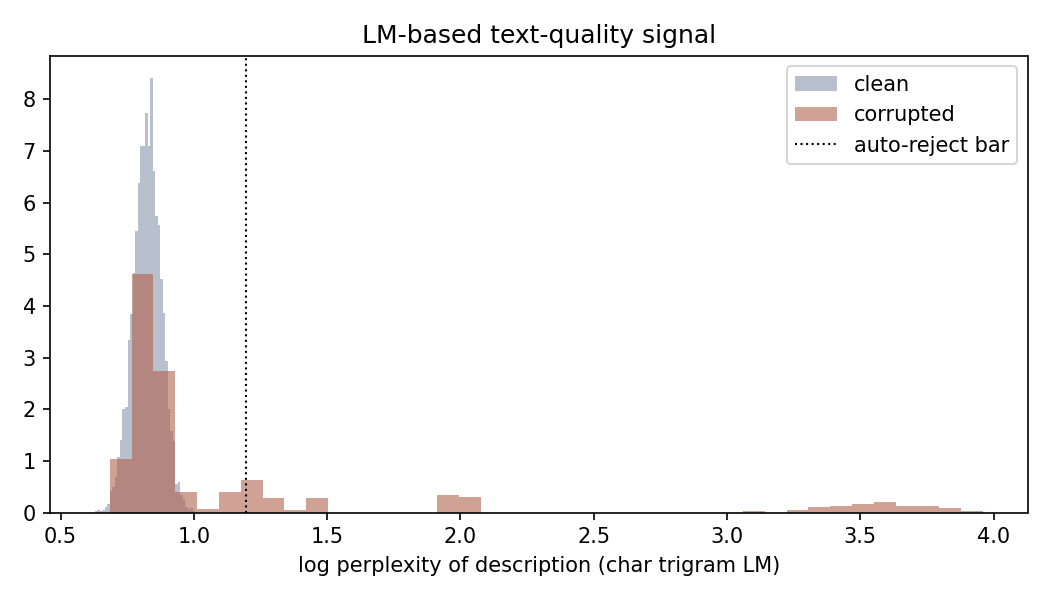
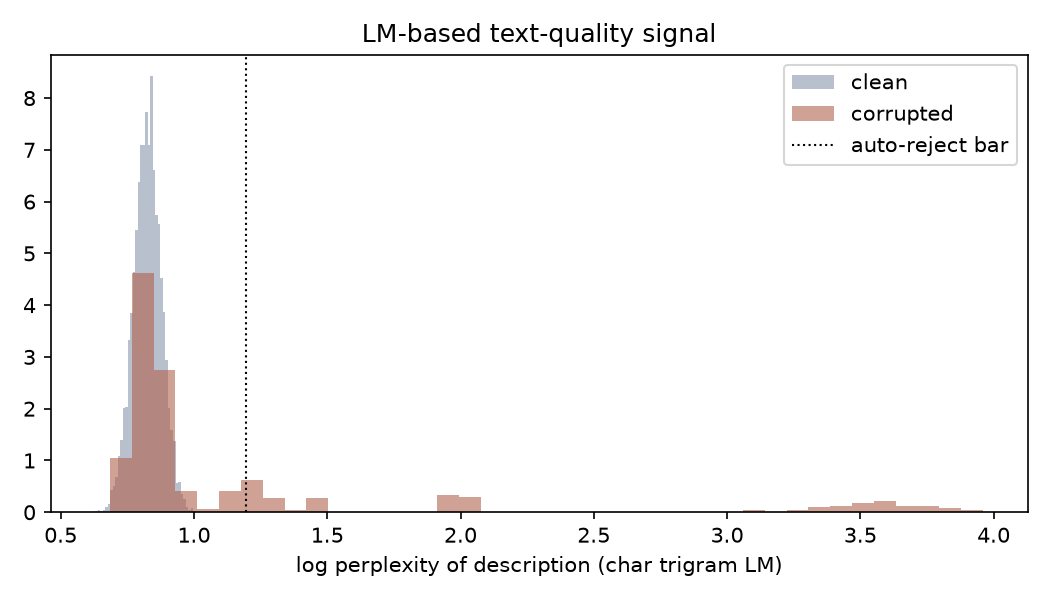
Add Docker, Airflow, MLflow ops and Snowflake port for data-quality-verification and student-outcomes-analysis

diff --git a/data-quality-verification/airflow/dags/data_quality_dag.py b/data-quality-verification/airflow/dags/data_quality_dag.py
@@ -1,0 +1,52 @@
+"""Airflow DAG: daily data-quality verification run.
+
+Orchestrates the pipeline as two dependent tasks:
+    generate_dataset >> run_verification
+
+Setup (using the official Airflow docker-compose quickstart,
+https://airflow.apache.org/docs/apache-airflow/stable/howto/docker-compose/):
+
+1. Follow the quickstart to get Airflow running with docker compose.
+2. Copy this file into the quickstart's dags/ folder.
+3. Mount this project into the containers by adding under x-airflow-common
+   volumes in the quickstart's docker-compose.yaml:
+       - /path/to/data-quality-verification:/opt/airflow/project
+4. In the Airflow UI (http://localhost:8080), unpause `data_quality_pipeline`
+   and trigger a run; both tasks should go green and results/ appears
+   in the project folder.
+"""
+
+from datetime import datetime, timedelta
+
+from airflow import DAG
+from airflow.operators.bash import BashOperator
+
+PROJECT = "/opt/airflow/project"
+
+default_args = {
+    "owner": "ahmed",
+    "retries": 1,
+    "retry_delay": timedelta(minutes=5),
+}
+
+with DAG(
+    dag_id="data_quality_pipeline",
+    description="Generate marketplace records and run layered quality checks",
+    start_date=datetime(2026, 1, 1),
+    schedule="@daily",
+    catchup=False,
+    default_args=default_args,
+    tags=["data-quality"],
+) as dag:
+
+    generate_dataset = BashOperator(
+        task_id="generate_dataset",
+        bash_command=f"cd {PROJECT} && python src/generate_dataset.py",
+    )
+
+    run_verification = BashOperator(
+        task_id="run_verification",
+        bash_command=f"cd {PROJECT} && python src/run_pipeline.py",
+    )
+
+    generate_dataset >> run_verification

diff --git a/data-quality-verification/src/run_pipeline.py b/data-quality-verification/src/run_pipeline.py
@@ -180,6 +180,33 @@ def main():
                    "recall_by_mode": mode_recall}, f, indent=2)
     print(f"\nSaved metrics, figures, review-queue sample to {RESULTS}")
 
+    # ---- optional MLflow experiment tracking ------------------------------
+    # If mlflow is installed (pip install mlflow), each pipeline run is
+    # logged with its thresholds, headline metrics, and artifacts so runs
+    # can be compared in the MLflow UI (`mlflow ui`, http://localhost:5000).
+    try:
+        import mlflow
+    except ImportError:
+        print("mlflow not installed -- skipping experiment tracking")
+    else:
+        mlflow.set_experiment("data-quality-verification")
+        with mlflow.start_run():
+            mlflow.log_params({
+                "n_records": len(records),
+                "ppl_hard_threshold": round(ppl_hi, 2),
+                "ppl_soft_threshold": round(ppl_soft, 2),
+                "repetition_hard": 0.65,
+                "repetition_soft": 0.5,
+            })
+            mlflow.log_metrics({
+                "precision_flagged": precision,
+                "recall_flagged": recall,
+                "leakage_into_accept": leakage,
+                "review_load": review_load,
+            })
+            mlflow.log_artifacts(str(RESULTS))
+        print("logged run to MLflow experiment 'data-quality-verification'")
+
 
 if __name__ == "__main__":
     main()

diff --git a/data-quality-verification/results/review_queue_sample.md b/data-quality-verification/results/review_queue_sample.md
@@ -15,16 +15,6 @@
 - truth: ['exact_duplicate']
 - description: `This rechargeable chair provides a two-year warranty and quiet operation. The ergonomic design offers a machine-washable`
 
-## R00023
-- reasons: near_duplicate (soft: jaccard 0.84 vs R04457)
-- truth: clean
-- description: `This lightweight kettle comes with fast shipping and a reinforced frame. The classic design offers a two-year warranty.`
-
-## R00027
-- reasons: near_duplicate (soft: jaccard 0.81 vs R02295)
-- truth: clean
-- description: `This rechargeable drill includes an extended battery and a two-year warranty. The modern design features an ergonomic gr`
-
 ## R00029
 - reasons: near_duplicate (soft: jaccard 0.89 vs R03421)
 - truth: clean
@@ -39,3 +29,13 @@
 - reasons: near_duplicate (soft: jaccard 1.00 vs R02057)
 - truth: ['exact_duplicate']
 - description: `This modern desk provides an extended battery and a reinforced frame. The lightweight design includes a compact folding `
+
+## R00049
+- reasons: near_duplicate (soft: jaccard 0.85 vs R01084)
+- truth: clean
+- description: `This foldable kettle includes a two-year warranty and an extended battery. The foldable design offers tool-free assembly`
+
+## R00051
+- reasons: near_duplicate (soft: jaccard 0.85 vs R03928)
+- truth: clean
+- description: `This heavy-duty kettle features a compact folding design and a reinforced frame. The modern design comes with fast shipp`

diff --git a/data-quality-verification/README.md b/data-quality-verification/README.md
@@ -86,3 +86,22 @@ actually see: each record with its flags, reasons, and scores.
 python src/generate_dataset.py   # build corpus + ground truth
 python src/run_pipeline.py       # verify, route, evaluate (~3 s)
 ```
+
+## Operations: Docker, Airflow, MLflow
+
+The pipeline is packaged for scheduled, tracked execution:
+
+- **Docker** — `docker compose up --build` runs the full pipeline in a
+  container, with `data/` and `results/` volume-mounted to the host.
+- **Airflow** — [`airflow/dags/data_quality_dag.py`](airflow/dags/data_quality_dag.py)
+  orchestrates it as a daily two-task DAG
+  (`generate_dataset >> run_verification`); setup instructions for the
+  official Airflow docker-compose quickstart are in the DAG docstring.
+- **MLflow** — if `mlflow` is installed, every pipeline run logs its
+  thresholds, headline metrics (precision/recall/leakage/review load),
+  and all artifacts to the `data-quality-verification` experiment;
+  compare runs with `mlflow ui`. Without mlflow installed the pipeline
+  runs identically and simply skips tracking.
+
+A Snowflake port of the companion SQL analysis lives in
+[`student-outcomes-analysis/sql/snowflake_queries.sql`](../student-outcomes-analysis/sql/snowflake_queries.sql).

diff --git a/student-outcomes-analysis/README.md b/student-outcomes-analysis/README.md
@@ -84,6 +84,16 @@ python src/efficacy_analysis.py  # permutation tests + adjustment (~4 s)
 python src/predict_scores.py     # CV model comparison (~15 s)
 ```
 
+## Snowflake port
+
+[`sql/snowflake_queries.sql`](sql/snowflake_queries.sql) re-implements the
+SQL layer on Snowflake (warehouse/database/schema DDL, then the same
+aggregate, selection-check, and window-function queries). Loaded via
+Snowsight's data-load wizard and run on a live trial account — results
+matched [`results/sql_results.md`](results/sql_results.md) exactly,
+confirming the SQLite logic translates directly (same window-function
+semantics, `IFF` swapped in for SQLite's `CASE WHEN`).
+
 ## Limitations / next steps
 
 - No randomization → association, not causation; a stepped-wedge or

diff --git a/language-model-from-scratch/README.md b/language-model-from-scratch/README.md
@@ -51,7 +51,7 @@ Also visible in the training curve: validation perplexity plateaus
 while training loss keeps falling — mild overfitting, the cue for
 early stopping.
 
-After running, paste your printed `PERPLEXITY_TABLE` numbers here:
+Measured on tiny-shakespeare (200K characters, 90/10 split):
 
 | Model | Val perplexity |
 |---|---|
